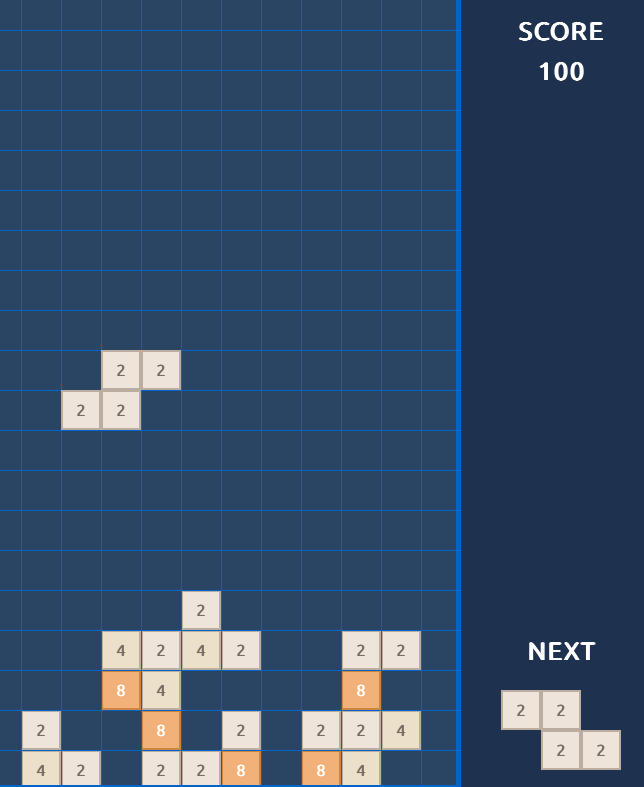
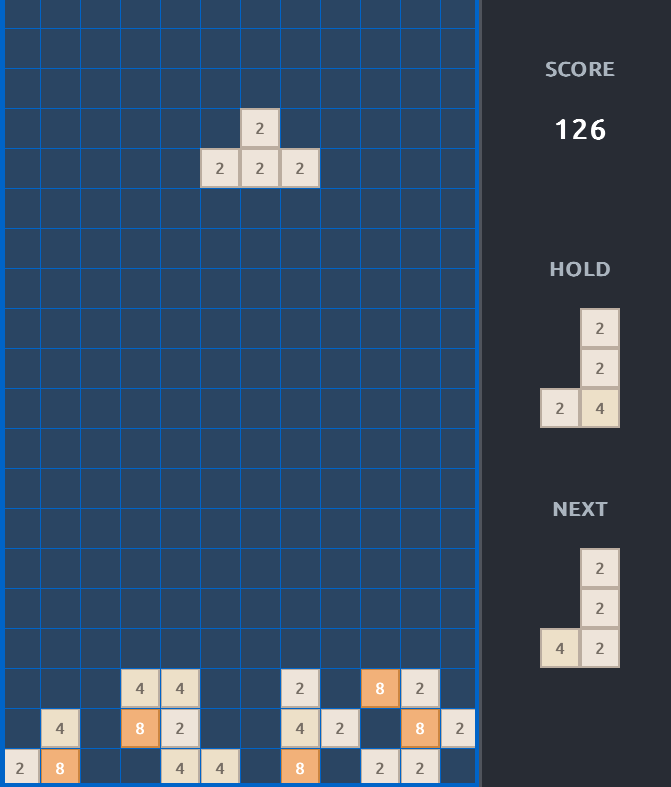
Add hold piece, UI and speed tweaks
Implements tetromino hold functionality and related UI/behavior changes.

- GameEngine: add held_tetromino and can_hold, extracted gameplay key handling to _process_gameplay_key, map 'h' to hold_tetromino, implement hold_tetromino() (swap/spawn logic, reset position, single-hold-per-drop guard).
- Tetromino: add reset_position() to respawn a piece at top-center when held.
- GameGrid: track held_tetromino, enhance draw_ui() to render SCORE, HOLD and NEXT sections, and make display(pause:int=500) accept a variable pause/delay.
- Gameplay pacing: adjust fall/display delay based on score to increase speed as score grows and pass current_delay to grid.display().
- Docs/assets: bump README release link to v1.1.0 and document the H key; update menu/in-game images.

These changes add the hold feature, improve UI layout, and make game speed scale with score.

diff --git a/src/tetris2048/game/game_grid.py b/src/tetris2048/game/game_grid.py
@@ -71,6 +71,7 @@ class GameGrid:
 		# UI state
 		self.score: int = 0
 		self.next_tetromino: DrawableTetromino | None = None
+		self.held_tetromino: DrawableTetromino | None = None
 		# Colors for display
 		self.empty_cell_color: Color = color_class(42, 69, 99)
 		self.line_color: Color = color_class(0, 100, 200)
@@ -79,7 +80,7 @@ class GameGrid:
 		self.line_thickness: float = 0.002
 		self.box_thickness: float = 5 * self.line_thickness
 
-	def display(self) -> None:
+	def display(self, pause: int = 500) -> None:
 		"""Display the game grid on the screen.
 
 		Clears the background, draws the grid, current tetromino,
@@ -96,67 +97,88 @@ class GameGrid:
 		self.draw_boundaries()
 		# Draw UI panel
 		self.draw_ui()
-		# Show with 300ms pause
-		stddraw.show(300)
+		# Show with pause default is 500ms
+		stddraw.show(pause)
 
 	def draw_ui(self) -> None:
-		"""Draw the right-side UI panel (score and next tetromino preview)."""
+		"""Draw the right-side UI panel (score, hold, and next preview)."""
 		if self.ui_panel_units <= 0:
 			return
 
-		# UI rectangle bounds
 		ui_left_x = float(self.grid_width) - 0.5
 		ui_bottom_y = -0.5
 		ui_w = float(self.ui_panel_units)
 		ui_h = float(self.grid_height)
 
-		# Background for UI
-		ui_bg = Color(30, 50, 80)
-		stddraw.setPenColor(ui_bg)
+		# 1. UI Background & Divider Line
+		stddraw.setPenColor(Color(40, 44, 52))  # Dark slate background
 		stddraw.filledRectangle(ui_left_x, ui_bottom_y, ui_w, ui_h)
 
-		# Draw score at the top of the UI
-		stddraw.setPenColor(Color(255, 255, 255))
-		stddraw.setFontFamily("Arial")
-		stddraw.setFontSize(25)
-		score_x = ui_left_x + ui_w / 2
-		score_y = ui_bottom_y + ui_h - 1.0  # 1 user-unit down from top
-		stddraw.boldText(score_x, score_y, "SCORE")
-		stddraw.boldText(score_x, score_y - 1.0, f"{self.score}")
+		stddraw.setPenColor(Color(80, 84, 92))  # Subtle divider line
+		stddraw.line(ui_left_x, ui_bottom_y, ui_left_x, ui_bottom_y + ui_h)
 
-		# Check if there is a next piece to draw
-		if self.next_tetromino is None:
-			return
+		# Reference points for alignment
+		center_x = ui_left_x + (ui_w / 2)
+		top_y = ui_bottom_y + ui_h
 
-		# Get a bounded copy of the next piece tile matrix
-		tiles, _ = self.next_tetromino.get_min_bounded_tile_matrix()
-		n_rows, n_cols = tiles.shape
+		# 2. SCORE Section
+		score_label_y = top_y - 2.0
+		stddraw.setPenColor(Color(170, 180, 190))  # Soft gray for labels
+		stddraw.setFontFamily("Helvetica")
+		stddraw.setFontSize(20)
+		stddraw.boldText(center_x, score_label_y, "SCORE")
 
-		# Compute preview center near the bottom
-		vpad_bottom = 0.5
-		preview_height = n_rows
-		preview_center_y = ui_bottom_y + vpad_bottom + (preview_height / 2)
-		preview_center_x = ui_left_x + ui_w / 2
+		stddraw.setPenColor(Color(255, 255, 255))  # Bright white for the number
+		stddraw.setFontSize(28)
+		stddraw.boldText(center_x, score_label_y - 1.5, str(self.score))
 
-		# Draw "NEXT" text anchored dynamically above the preview piece
-		stddraw.setFontSize(25)
-		text_y_position = preview_center_y + (preview_height / 2) + 1.0
-		stddraw.boldText(score_x, text_y_position, "NEXT")
+		# 3. HOLD Section
+		hold_label_y = top_y - 7.0
+		stddraw.setPenColor(Color(170, 180, 190))
+		stddraw.setFontSize(20)
+		stddraw.boldText(center_x, hold_label_y, "HOLD")
 
-		# Compute rendering offset for the tiles
-		offset_x = preview_center_x - (n_cols / 2)
-		offset_y = preview_center_y - (n_rows / 2)
+		if self.held_tetromino is not None:
+			h_tiles, _ = self.held_tetromino.get_min_bounded_tile_matrix()
+			h_rows, h_cols = h_tiles.shape
+			h_off_x = center_x - (h_cols / 2.0)
+			h_off_y = hold_label_y - h_rows - 1.0
+			for r in range(h_rows):
+				for c in range(h_cols):
+					if h_tiles[r][c] is not None:
+						h_tiles[r][c].draw(
+							Point(
+								h_off_x + c + 0.5,
+								h_off_y
+								+ (h_rows - 1 - r)
+								+ 0.5,
+							),
+							length=1,
+						)
 
-		# Draw the next piece tiles
-		for r in range(n_rows):
-			for c in range(n_cols):
-				t = tiles[r][c]
-				if t is None:
-					continue
-				px = offset_x + c + 0.5
-				py = offset_y + (n_rows - 1 - r) + 0.5
-				p = Point(px, py)
-				t.draw(p, length=1)
+		# 4. NEXT Section
+		next_label_y = top_y - 13.0
+		stddraw.setPenColor(Color(170, 180, 190))
+		stddraw.setFontSize(20)
+		stddraw.boldText(center_x, next_label_y, "NEXT")
+
+		if self.next_tetromino is not None:
+			n_tiles, _ = self.next_tetromino.get_min_bounded_tile_matrix()
+			n_rows, n_cols = n_tiles.shape
+			n_off_x = center_x - (n_cols / 2.0)
+			n_off_y = next_label_y - n_rows - 1.0
+			for r in range(n_rows):
+				for c in range(n_cols):
+					if n_tiles[r][c] is not None:
+						n_tiles[r][c].draw(
+							Point(
+								n_off_x + c + 0.5,
+								n_off_y
+								+ (n_rows - 1 - r)
+								+ 0.5,
+							),
+							length=1,
+						)
 
 	def draw_grid(self) -> None:
 		"""Draw the game grid cells and lines.

diff --git a/src/tetris2048/game/game_engine.py b/src/tetris2048/game/game_engine.py
@@ -96,6 +96,8 @@ class GameEngine:
 		# Tetromino lifecycle
 		self.current_tetromino: Tetromino | None = None
 		self.next_tetromino: Tetromino | None = self.create_tetromino()
+		self.held_tetromino: Tetromino | None = None
+		self.can_hold: bool = True
 
 		# Score tracking
 		self.score: int = 0
@@ -156,7 +158,9 @@ class GameEngine:
 		self._rotation_degree = 0
 		self.grid.current_tetromino = self.current_tetromino
 		self.grid.next_tetromino = self.next_tetromino
+		self.grid.held_tetromino = self.held_tetromino
 		self.grid.score = self.score
+		self.can_hold = True
 
 	def display_game_menu(self) -> None:
 		"""Display the main game menu and wait for user to start.
@@ -319,6 +323,7 @@ class GameEngine:
 
 		key_typed = stddraw.nextKeyTyped()  # pyright: ignore[reportAny]
 
+		# 1. Handle global game states
 		if key_typed == "escape":
 			self.is_paused = not self.is_paused
 			stddraw.clearKeysTyped()  # pyright: ignore[reportAny]
@@ -333,6 +338,17 @@ class GameEngine:
 			stddraw.clearKeysTyped()  # pyright: ignore[reportAny]
 			return
 
+		# 2. Delegate active gameplay controls to lower complexity
+		self._process_gameplay_key(key_typed)
+		self.rotation_track(key_typed)
+
+		stddraw.clearKeysTyped()  # pyright: ignore[reportAny]
+
+	def _process_gameplay_key(self, key_typed: str) -> None:
+		"""Process active gameplay controls."""
+		if self.current_tetromino is None:
+			return
+
 		if key_typed == "left":
 			_ = self.current_tetromino.move("left", self.grid)
 		elif key_typed == "right":
@@ -343,9 +359,8 @@ class GameEngine:
 			# Hard drop
 			while self.current_tetromino.move("down", self.grid):
 				pass
-
-		self.rotation_track(key_typed)
-		stddraw.clearKeysTyped()  # pyright: ignore[reportAny]
+		elif key_typed == "h":
+			self.hold_tetromino()
 
 	def display_game_over_state(self) -> None:
 		"""Render the grid with a GAME OVER overlay."""
@@ -378,6 +393,32 @@ class GameEngine:
 		if stddraw.nextKeyTyped() == "r":  # pyright: ignore[reportAny]
 			self.restart_game()
 			stddraw.clearKeysTyped()  # pyright: ignore[reportAny]
+
+	def hold_tetromino(self) -> None:
+		"""Swap the current tetromino with the held one."""
+		if not self.can_hold or self.current_tetromino is None:
+			return
+
+		# Reset the current piece's coordinates back to the top
+		self.current_tetromino.reset_position()
+
+		if self.held_tetromino is None:
+			# First time holding move current to hold, spawn next
+			self.held_tetromino = self.current_tetromino
+			self.spawn_tetromino()
+		else:
+			# Swap current and held
+			temp = self.current_tetromino
+			self.current_tetromino = self.held_tetromino
+			self.held_tetromino = temp
+
+			# Update grid references
+			self.grid.current_tetromino = self.current_tetromino
+			self.grid.held_tetromino = self.held_tetromino
+			self._rotation_degree = 0
+
+		# Prevent multiple holds in a single drop
+		self.can_hold = False
 
 	def display_win_state(self) -> None:
 		"""Render the grid with a YOU WIN overlay."""
@@ -476,9 +517,12 @@ class GameEngine:
 				self.score = self.grid.score
 				# Spawn next tetromino
 				self.spawn_tetromino()
-
+			# Adjust delay based on score so that higher scores result
+			# in faster gameplay which makes difficulty more challenging
+			speed_reduction = (self.score // 200) * 50
+			current_delay = max(100, 500 - speed_reduction)
 			# Display the current state
-			self.grid.display()
+			self.grid.display(current_delay)
 			# Game over
 			self._logger.info("Game over")
 

diff --git a/src/tetris2048/game/tetromino.py b/src/tetris2048/game/tetromino.py
@@ -99,6 +99,12 @@ class Tetromino:
 		position.y = self.bottom_left_cell.y + (n - 1) - row
 		return position
 
+	def reset_position(self) -> None:
+		"""Reset the tetromino back to the top-center spawn point."""
+		self.bottom_left_corner = Point(
+			self.grid_width // 2 - 2, self.grid_height - 4
+		)
+
 	def get_min_bounded_tile_matrix(
 		self, *, return_position: bool = False
 	) -> tuple[np.ndarray, Point | None]:

diff --git a/README.md b/README.md
@@ -51,7 +51,7 @@ Note: Installing via `pip install -e .` reads `pyproject.toml` and installs depe
 
 You do not need to install Python to play the game if you use the pre-built executables.
 
-1. Go to the [v1.0.0 Release page](https://github.com/ertanturk/tetris2048/releases/tag/v1.0.0).
+1. Go to the [v1.1.0 Release page](https://github.com/ertanturk/tetris2048/releases/tag/v1.1.0).
 2. Download the `.zip` file for your operating system from the **Assets** section at the bottom.
 3. Extract the `.zip` file.
    - **Windows:** Double-click the `.exe` file to play.
@@ -78,6 +78,7 @@ The game opens a window and shows the main menu. Click the start button to begin
 - Up arrow: rotate tetromino (clockwise)
 - Escape: pause / unpause
 - R: restart the game
+- H: hold the tetromino
 
 ## User Interface
 
@@ -109,6 +110,12 @@ Top-level layout (key items):
 - Merge behavior is performed in `game_grid.py`. It uses a bottom-to-top chain merging loop. When vertically adjacent tiles share the same number, they merge and double in value. The tiles above shift down, allowing continuous chain merges in a single turn.
 - Row clearing compacts rows toward the bottom of the grid. Floating tiles are identified using a 4-way connectivity check (up, down, left, right) anchored to the bottom row. Any disconnected tiles are immediately deleted and their values are added to the score.
 - The rendering layer is decoupled from logic to keep tests and simulation simple.
+- The game
+
+## Difficulty Progression
+
+- Base Speed: 500ms per tick.
+- Difficulty Adjustment: When the score reaches 200, decrease the tick interval by 50ms (resulting in a new speed of 450ms) to increase the block fall rate.
 
 ## Troubleshooting
 
